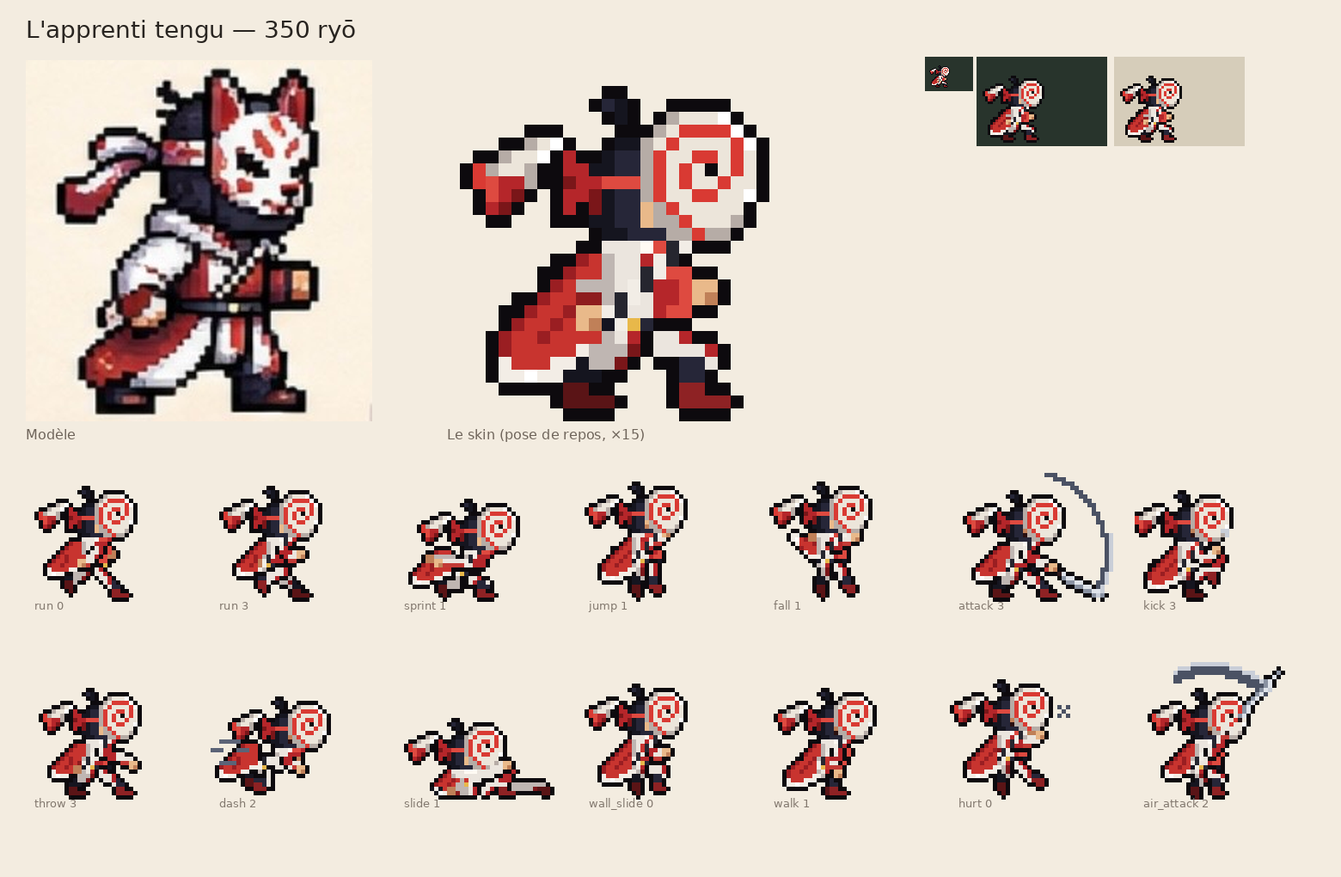
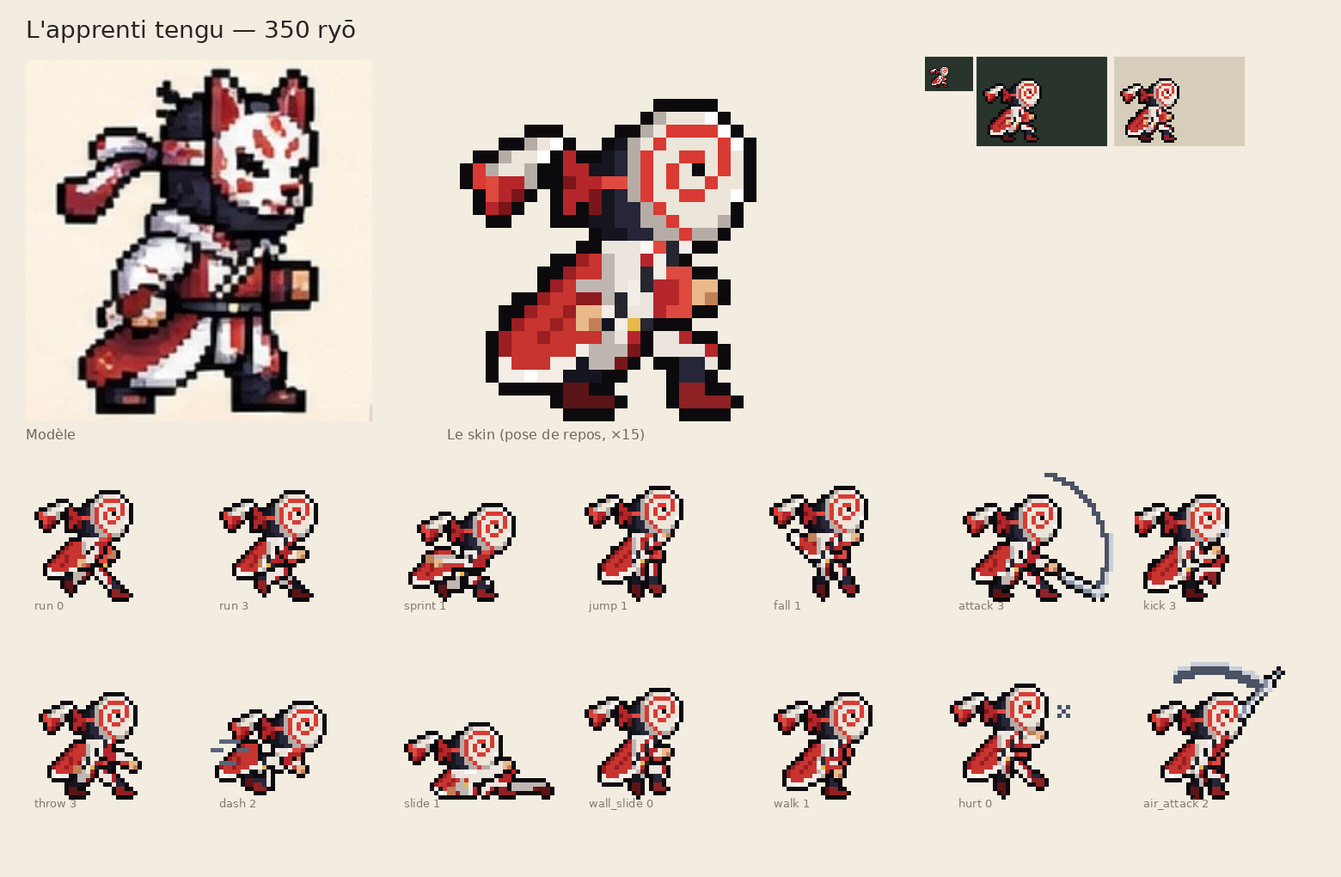
Apprenti tengu terminé : masque collé au visage, sans crête ; messages de reprise
Le masque à spirale est collé d'un pixel contre le visage, et la petite
crête noire (la mèche nouée) qui ressortait entre le masque et les rubans
est retirée (Raph : le skin est terminé).

Fin de série : messages de reprise (général, skins, arènes, chapitres),
SKINS.md (état, leçons : lisibilité avant détail, capes qui partent du dos,
accessoires collés au visage) et carte mentale à jour.

Claude-Session: https://claude.ai/code/session_01A2iwx41GJ1yT1ZEu9VhwRg

diff --git a/docs/carte-mentale/index.html b/docs/carte-mentale/index.html
@@ -270,7 +270,7 @@ const BRANCHES = [
     keys: ['2 dégâts, recul 170 px/s', '0,35 s avant d\'en relancer un', 'Portée équivalente au sabre'],
     files: ['src/game/fall.js', 'tools/kage_forge/rig.py'], see: ['ennemi-chute'] },
   { id: 'kage-skins', t: 'Skins de KAGE', s: 'encours', d: 'Encre, le paysan, l’apprenti tengu, le Samouraï déchu, le pêcheur, Lumière d’or ; cinq autres à reprendre un par un',
-    txt: "Un skin = une palette par slots (même animation, même boîte de collision, rien ne change dans le jeu) et des accessoires, posés pose par pose : sur la tête (grand sugegasa tressé, dessiné à la main), dans le dos (le mino de feuilles et de paille du voyageur, qui suit le bord du dos, s'évase jusqu'aux chevilles et s'effiloche ; le tonnelet doré, le panier, le bambou et le manche d'outil du paysan), sur le corps (cordon doré en pointillés et boucle de ceinture, pan de tunique, pantalon rapiécé, kimono semé de feuilles). Les pans du bandeau sont rangés (le voyageur garde un ruban qui flotte). Chaque skin a sa planche d'animation complète (la forge exporte ses accessoires sur un calque d'index, kage_acc_<skin>_index.png, fondu par le jeu sur la planche recolorée). Planches de Raph (14 novembre 2026) : après un premier essai trop rapide des dix skins entourés, on reprend un par un ; faits : le voyageur (100 ryō, retiré du jeu le 16 novembre 2026 à la demande de Raph : sa planche reste dans docs/kage/skins/) et le paysan des rizières (100 ryō) ; le vagabond (50 ryō) est retiré du jeu (14 novembre 2026) ; Lumière d'or (légendaire, 600 ryō, 15 novembre 2026) : ninja bleu nuit, bandeau d'or et ses pans en flammes, étoffe dorée sur l'épaule, cordon et pans d'or à la ceinture, grande auréole à croix de lumière (sans contour) ; sabre à lame d'or et poignée de cuir, arc du coup d'or, shurikens dorés (projectileColors) ; en jeu (src/game/aura.js), un orbe doré qui flotte devant lui, deux volutes de lumière autour des jambes, des étincelles ; une légère traînée d'or derrière le coup d'épée (les images précédentes de la lame) des silhouettes dorées derrière le dash , trois reflets et un peu de poussière d'or étincelante derrière chaque shuriken (champ trail, Shurikens.dust, maskSheet dans sprites.js) ; le Samouraï déchu (rare, 450 ryō, 16 novembre 2026) : kabuto laqué à la bombe haute, cornes d'or en croissant et cimier rouge, bande rouge et ses deux pans au vent ; épaulière laquée bordée d'or, au haut carré, resserrée sur l'épaule (elle ne dépasse plus que d'un pixel : Raph la confondait avec la cape) ; cape rouge en lambeaux, dessinée à la main pour chaque vent (lu sur les pans du bandeau de la pose) : au repos plaquée dans le dos des épaules aux genoux, trois pixels au plus derrière l'épaule, angles nets, une entaille sur le côté, le bas en pointes ; en course elle vole haut derrière les épaules ; en chute elle se soulève ; col d'or en V, ceinture à plaques d'or ; tassette avant bordée d'or en U, tassette arrière clouée d'or ; hakama sombre jusqu'à la jambe levée d'un coup de pied, chaussures à bande rouille ; le bras arrière rapproché du corps d'un pixel (demandes de Raph) ; sa barre de vie passe au-dessus des cornes (champ barLift). Le même jour : un calque d'accessoires sait effacer (marque ERASE, index 255 : les pans rangés, le bras déplacé) ; jusque-là, ce qu'un accessoire retirait restait visible en jeu (les pans du voyageur, du paysan et de Lumière d'or) ; et en arène, le ninja porte enfin le skin de l'aventure en cours. Le pêcheur (épique, 500 ryō, 16 novembre 2026) : sugegasa à bande de tressage gris-bleu, pan bleu sous le bord, tenue bleu nuit semée d'éclats dorés, corde tressée claire en bandoulière, une canne fine rangée dans le dos, qui dépasse au-dessus du chapeau, un petit fil pendu à sa pointe (elle quitte le dos quand il la prend pour frapper), un filet rond sur le dos tenu à la hanche, qui lévite avec la vitesse (un peu en course ; en sprint et en dash il monte, part en arrière, penche et laisse trois traits de vitesse ; plus petit pendant les saltos), une canne à pêche en bambou à la place du sabre (nœuds, poignée de liège, scion, ligne et flotteur rouge et blanc ; l'arc du coup devient une ligne d'eau), des micro-poissons en guise de shurikens (agrandis ×1,4 le 17 novembre 2026 ; planche kage_fish, cases de 16 px, tournés dans le sens du vol, plantés la tête la première, des micro-gouttelettes d'eau derrière eux ; un petit poisson dans la main au lancer), toiles de paille aux chevilles, marque dorée sur le masque. Les pans du bandeau qui remontent derrière la tête (chute, glissade murale) sont désormais rangés aussi (ribbon : paysan, Lumière d'or). L'apprenti tengu (n° 13, peu commun, 350 ryō, 17 novembre 2026) : masque blanc lisse à œil unique, une spirale rouge d'un pixel qui part de l'œil, s'enroule vers l'extérieur et finit dans le bord bas du masque (choisi par Raph le 17 novembre 2026 parmi six idées, docs/kage/skins/tengu_masques.png, après l'abandon du masque de renard), mèche nouée, rubans blanc et rouge effilés au vent, boucle dorée à la ceinture, veste blanche à la poitrine rouge, cordelette en damier, pantalon blanc à bande rouge, tibias sombres, long pan du manteau rouge bordé de blanc, qui fait cape, rapproché du dos de deux pixels : il part du milieu du dos, large contre le dos, s'arrête au-dessus des pieds, reste près du dos en course (sans traîner comme une queue) et se ramasse pendant les saltos ; rubans raccourcis. Les cinq autres (ninja blanc, écarlate, Ombre pourpre, Souffle de l'hiver, Renard blanc) attendent en brouillon (tools/kage_forge/skins_brouillon/), hors du jeu. Nouveaux slots : gear (b B i) et gear2 (j J).",
+    txt: "Un skin = une palette par slots (même animation, même boîte de collision, rien ne change dans le jeu) et des accessoires, posés pose par pose : sur la tête (grand sugegasa tressé, dessiné à la main), dans le dos (le mino de feuilles et de paille du voyageur, qui suit le bord du dos, s'évase jusqu'aux chevilles et s'effiloche ; le tonnelet doré, le panier, le bambou et le manche d'outil du paysan), sur le corps (cordon doré en pointillés et boucle de ceinture, pan de tunique, pantalon rapiécé, kimono semé de feuilles). Les pans du bandeau sont rangés (le voyageur garde un ruban qui flotte). Chaque skin a sa planche d'animation complète (la forge exporte ses accessoires sur un calque d'index, kage_acc_<skin>_index.png, fondu par le jeu sur la planche recolorée). Planches de Raph (14 novembre 2026) : après un premier essai trop rapide des dix skins entourés, on reprend un par un ; faits : le voyageur (100 ryō, retiré du jeu le 16 novembre 2026 à la demande de Raph : sa planche reste dans docs/kage/skins/) et le paysan des rizières (100 ryō) ; le vagabond (50 ryō) est retiré du jeu (14 novembre 2026) ; Lumière d'or (légendaire, 600 ryō, 15 novembre 2026) : ninja bleu nuit, bandeau d'or et ses pans en flammes, étoffe dorée sur l'épaule, cordon et pans d'or à la ceinture, grande auréole à croix de lumière (sans contour) ; sabre à lame d'or et poignée de cuir, arc du coup d'or, shurikens dorés (projectileColors) ; en jeu (src/game/aura.js), un orbe doré qui flotte devant lui, deux volutes de lumière autour des jambes, des étincelles ; une légère traînée d'or derrière le coup d'épée (les images précédentes de la lame) des silhouettes dorées derrière le dash , trois reflets et un peu de poussière d'or étincelante derrière chaque shuriken (champ trail, Shurikens.dust, maskSheet dans sprites.js) ; le Samouraï déchu (rare, 450 ryō, 16 novembre 2026) : kabuto laqué à la bombe haute, cornes d'or en croissant et cimier rouge, bande rouge et ses deux pans au vent ; épaulière laquée bordée d'or, au haut carré, resserrée sur l'épaule (elle ne dépasse plus que d'un pixel : Raph la confondait avec la cape) ; cape rouge en lambeaux, dessinée à la main pour chaque vent (lu sur les pans du bandeau de la pose) : au repos plaquée dans le dos des épaules aux genoux, trois pixels au plus derrière l'épaule, angles nets, une entaille sur le côté, le bas en pointes ; en course elle vole haut derrière les épaules ; en chute elle se soulève ; col d'or en V, ceinture à plaques d'or ; tassette avant bordée d'or en U, tassette arrière clouée d'or ; hakama sombre jusqu'à la jambe levée d'un coup de pied, chaussures à bande rouille ; le bras arrière rapproché du corps d'un pixel (demandes de Raph) ; sa barre de vie passe au-dessus des cornes (champ barLift). Le même jour : un calque d'accessoires sait effacer (marque ERASE, index 255 : les pans rangés, le bras déplacé) ; jusque-là, ce qu'un accessoire retirait restait visible en jeu (les pans du voyageur, du paysan et de Lumière d'or) ; et en arène, le ninja porte enfin le skin de l'aventure en cours. Le pêcheur (épique, 500 ryō, 16 novembre 2026) : sugegasa à bande de tressage gris-bleu, pan bleu sous le bord, tenue bleu nuit semée d'éclats dorés, corde tressée claire en bandoulière, une canne fine rangée dans le dos, qui dépasse au-dessus du chapeau, un petit fil pendu à sa pointe (elle quitte le dos quand il la prend pour frapper), un filet rond sur le dos tenu à la hanche, qui lévite avec la vitesse (un peu en course ; en sprint et en dash il monte, part en arrière, penche et laisse trois traits de vitesse ; plus petit pendant les saltos), une canne à pêche en bambou à la place du sabre (nœuds, poignée de liège, scion, ligne et flotteur rouge et blanc ; l'arc du coup devient une ligne d'eau), des micro-poissons en guise de shurikens (agrandis ×1,4 le 17 novembre 2026 ; planche kage_fish, cases de 16 px, tournés dans le sens du vol, plantés la tête la première, des micro-gouttelettes d'eau derrière eux ; un petit poisson dans la main au lancer), toiles de paille aux chevilles, marque dorée sur le masque. Les pans du bandeau qui remontent derrière la tête (chute, glissade murale) sont désormais rangés aussi (ribbon : paysan, Lumière d'or). L'apprenti tengu (n° 13, peu commun, 350 ryō, 17 novembre 2026) : masque blanc lisse à œil unique, une spirale rouge d'un pixel qui part de l'œil, s'enroule vers l'extérieur et finit dans le bord bas du masque (choisi par Raph le 17 novembre 2026 parmi six idées, docs/kage/skins/tengu_masques.png, après l'abandon du masque de renard ; collé contre le visage, sans la petite crête noire au sommet), rubans blanc et rouge effilés au vent, boucle dorée à la ceinture, veste blanche à la poitrine rouge, cordelette en damier, pantalon blanc à bande rouge, tibias sombres, long pan du manteau rouge bordé de blanc, qui fait cape, rapproché du dos de deux pixels : il part du milieu du dos, large contre le dos, s'arrête au-dessus des pieds, reste près du dos en course (sans traîner comme une queue) et se ramasse pendant les saltos ; rubans raccourcis. Les cinq autres (ninja blanc, écarlate, Ombre pourpre, Souffle de l'hiver, Renard blanc) attendent en brouillon (tools/kage_forge/skins_brouillon/), hors du jeu. Nouveaux slots : gear (b B i) et gear2 (j J).",
     keys: ['6 skins en jeu', '5 en brouillon', 'gear b B i · gear2 j J', 'effacer : index 255'],
     files: ['assets/characters/kage/skins/', 'src/engine/sprites.js', 'tools/kage_forge/accessories.py', 'tools/kage_forge/palette.py', 'tools/kage_forge/skin_design.py', 'tools/kage_forge/skin_sheets.py', 'tools/kage_forge/skins_brouillon/', 'src/game/shop.js', 'src/game/aura.js', 'docs/SKINS.md'],
     links: [['Le paysan, face à son modèle', 'docs/kage/skins/paysan_planche.png'], ['Lumière d’or, face à son modèle', 'docs/kage/skins/or_planche.png'], ['Le Samouraï déchu, face à son modèle', 'docs/kage/skins/samourai_planche.png'], ['Le pêcheur, face à son modèle', 'docs/kage/skins/pecheur_planche.png'], ['L’apprenti tengu, face à son modèle', 'docs/kage/skins/tengu_planche.png'], ['L’apprenti tengu : les six idées de masques', 'docs/kage/skins/tengu_masques.png'], ['Le pêcheur, toutes les animations', 'docs/kage/skins/planche_pecheur.png'], ['Le Samouraï déchu, toutes les animations', 'docs/kage/skins/planche_samourai.png']], see: ['sys-boutique', 'hab-marchand'] },

diff --git a/tools/kage_forge/accessories.py b/tools/kage_forge/accessories.py
@@ -1331,7 +1331,7 @@ def mask_mark(g):
 # ---------------------------------------------------------------------------
 # L'Apprenti Tengu (planche de Raph, n° 13) : un masque blanc lisse à œil unique, une spirale rouge qui part de
 # l'œil, s'enroule vers l'extérieur et finit dans le bord bas du masque (choix de Raph, après l'abandon du masque de renard : on n'y devinait pas
-# assez le renard à notre échelle de pixels) ; capuche sombre derrière et sa petite mèche nouée, deux rubans
+# assez le renard à notre échelle de pixels) ; capuche sombre derrière, deux rubans
 # (blanc bordé de rouge, et rouge) qui flottent derrière la tête ; veste blanche au devant rouge, cordelette en
 # damier ; pantalon blanc à bande rouge ; le long pan du manteau, rouge bordé de blanc, qui fait cape et suit
 # le vent de la pose (comme la cape du samouraï).
@@ -1350,7 +1350,7 @@ bJBBJJBBi
 .bbJBBBb.
 ..bbJbb..
 """
-FOX_MASK_DX, FOX_MASK_DY = 5, -1
+FOX_MASK_DX, FOX_MASK_DY = 4, -1
 
 # les deux rubans du masque, qui flottent derrière la tête (rangée relative à hy : colonne, motif)
 FOX_TIES = {
@@ -1365,8 +1365,7 @@ FOX_TIES = {
 
 
 def fox_mask(g):
-    """Le masque à œil unique et sa spirale (FOX_MASK), la petite mèche nouée au sommet de la capuche, et les
-    deux rubans."""
+    """Le masque à œil unique et sa spirale (FOX_MASK), collé contre le visage, et les deux rubans."""
     pos = find_head(g)
     if pos is None:
         return g, False
@@ -1383,12 +1382,7 @@ def fox_mask(g):
             if c != "." and 0 <= x < CW and 0 <= y < CH and g[y, x] in BG:
                 g[y, x] = c
                 mask[y, x] = True
-    # la mèche nouée, à l'arrière du sommet
-    for dx, dy, c in ((3, -1, "h"), (2, -2, "H"), (3, -2, "h")):
-        x, y = hx + dx, hy + dy
-        if 0 <= x < CW and 0 <= y < CH and g[y, x] in BG:
-            g[y, x] = c
-            mask[y, x] = True
+    # (plus de mèche nouée au sommet : la petite crête noire ressortait derrière le masque, Raph)
     for j, row in enumerate(_rows(FOX_MASK)):
         for i, c in enumerate(row):
             x, y = hx + FOX_MASK_DX + i, hy + FOX_MASK_DY + j

diff --git a/docs/messages/MESSAGE_SKINS.md b/docs/messages/MESSAGE_SKINS.md
@@ -8,7 +8,7 @@ Bonjour ! On reprend mon jeu, et **cette conversation est consacrée uniquement 
 
 **Le jeu** : *The Ninja Adventure* (ex « The Ninja Game »), un jeu de plateforme 2D rapide en pixel art, dans un Japon peint (rizières, forêts, montagnes). Le ninja **n'a pas de nom pour le joueur** : il s'appelle KAGE seulement dans le code et les fichiers, jamais à l'écran. Réponds toujours en **français**.
 
-**Ce qui existe** (tout est dans `main` et en ligne, 16 novembre 2026) :
+**Ce qui existe** (tout est dans `main` et en ligne, 17 novembre 2026) :
 - **le menu de l'intro** : Aventure · Arène · Mon ninja. Il est sobre : aucune consigne ni sous-titre en petit gris.
   - Aventure : deux aventures en parallèle (continuer, nouvelle, effacer).
   - Arène : Nouvelle arène (« Accueillir ») ou Rejoindre avec un code de 4 signes.
@@ -23,7 +23,7 @@ Bonjour ! On reprend mon jeu, et **cette conversation est consacrée uniquement 
   - une grue et son rocher ficelé, un gong et des vagues, des échafaudages, des cœurs.
 - **le ninja** :
   - 28 animations : course, sprint, dash, glissade, saut mural, saltos, sabre, shurikens, coups de pied, lianes, corde… ;
-  - 4 skins : Encre, le voyageur, le paysan, Lumière d'or ; 7 autres en brouillon.
+  - 6 skins : Encre, le paysan, l'apprenti tengu, le Samouraï déchu, le pêcheur (canne à pêche et micro-poissons), Lumière d'or ; 5 autres en brouillon.
 
 **Technique** :
 - Vite et JavaScript (modules ES), Canvas 2D, aucune bibliothèque de rendu. Image interne 448×252, mise à l'échelle entière (pixels nets).
@@ -40,7 +40,7 @@ Bonjour ! On reprend mon jeu, et **cette conversation est consacrée uniquement 
 ```bash
 npm install
 npm run sprites   # sprites (ninja, ennemis, boss) avec contrôles qualité
-npm test          # carte mentale + build + versions autonomes + 93 tests de bout en bout + 32 de la Forêt
+npm test          # carte mentale + build + versions autonomes + 97 tests de bout en bout + 32 de la Forêt
 npm run dev       # le jeu en local ; #arene-potager, #foret, #niveau-1, #terrain
 ```
 Commence par `npm install`, `npm run sprites` et `npm test` pour connaître l'état réel.
@@ -48,7 +48,7 @@ Commence par `npm install`, `npm run sprites` et `npm test` pour connaître l'é
 **Les artefacts claude.ai** (fabriqués par `npm run standalone`) :
 - **« The Ninja Adventure Test »**, ma version d'essai :
   - https://claude.ai/artifact/ScyWi7qXjftmdLs6Qxo7Ys (identifiant `cf7a5349-c737-467e-8a85-43de0e34b850`, `dist/kage-test.html`, `shared_live: "public"`) ;
-  - pas d'écran titre, un panneau en haut à droite : skins sans achat, chapitres et zones en un clic, bouton Arène ;
+  - pas d'écran titre, un bouton « Réglages » en haut à droite ouvre et ferme le panneau : skins sans achat, chapitres et zones en un clic, bouton Arène ;
   - **elle ne se publie que si je dis « publie-le »** (alors sans redemander) ; si je ne dis rien, ne la publie pas.
 - **« The Ninja Adventure »**, le jeu pour tout le monde :
   - https://claude.ai/artifact/Cjj8EJCrABmuHzWypJC2cm (identifiant `5f0bb94d-1fa1-48d5-b9b9-f829586682e6`, `dist/kage-standalone.html`, `shared_live: "public"`) ;
@@ -63,7 +63,8 @@ Commence par `npm install`, `npm run sprites` et `npm test` pour connaître l'é
 - vérifie sur ordinateur et sur téléphone, en paysage (~844×390) et en portrait (~390×844) ;
 - **planche de design avant tout nouveau personnage, ennemi ou skin** ;
 - rendu « jeu indé soigné », jamais générique : de la profondeur, du volume, rien qui flotte, une lumière cohérente ;
-- interface discrète et sobre ;
+- interface discrète et sobre ; **menus apaisants** : aucune phrase d'aide, le marchand ne parle pas, le jeu laisse le joueur s'aventurer ;
+- **le son est toujours actif** (ni bouton « Son » ni touche M : le joueur passe son téléphone en silencieux) ;
 - commits et documentation en français ;
 - **la carte mentale** (`docs/carte-mentale/index.html`) se met à jour dans le même commit que chaque changement du jeu (`npm run carte` vérifie) ;
 - `npm run sprites` puis `npm test` verts avant de pousser ;
@@ -87,7 +88,12 @@ Commence par `npm install`, `npm run sprites` et `npm test` pour connaître l'é
 - je l'essaie dans la version test (skins sans achat).
 
 **Ce qui attend** :
-- les **sept skins en brouillon** (`tools/kage_forge/skins_brouillon/`), à refaire **un par un, fidèles à mes modèles** : le ninja blanc (150 ryō), le ninja écarlate (150), Ombre pourpre (150), le pêcheur (250), Souffle de l'hiver (450), Renard blanc (500), Samouraï déchu (550) ;
+- les **cinq skins en brouillon** (`tools/kage_forge/skins_brouillon/`), à refaire **un par un, fidèles à mes modèles** : le ninja blanc (150 ryō), le ninja écarlate (150), Ombre pourpre (150), Souffle de l'hiver (450), Renard blanc (500) ;
 - puis d'autres skins que je te proposerai.
+
+**Leçons des derniers skins** (17 novembre 2026, détail dans `docs/SKINS.md`) :
+- à notre échelle de pixels, un visage détaillé (masque de renard) ne se lit pas : préférer des **signes graphiques simples et forts** (la spirale de l'apprenti tengu) ; proposer plusieurs idées dessinées sur le ninja quand une piste coince ;
+- une cape ou un manteau doit partir **du dos**, pas de la ceinture, et rester près du corps en course (sinon on croit voir une queue) ; prévoir un gabarit ramassé pour les saltos ;
+- un skin peut changer d'arme et de projectiles (le pêcheur : canne à pêche, micro-poissons ; champ `projectile`).
 
 Dis-moi quand tu as lu et compris, en quelques lignes, puis attends ma première demande.

diff --git a/docs/SKINS.md b/docs/SKINS.md
@@ -6,7 +6,7 @@ Tout ce qu'il faut savoir pour **créer un skin** du ninja de *The Ninja Adventu
 
 ---
 
-## 1. Où on en est (16 novembre 2026, Samouraï déchu fait)
+## 1. Où on en est (17 novembre 2026 : Samouraï déchu, pêcheur et apprenti tengu faits)
 
 **Skins dans le jeu** (`assets/characters/kage/skins/`) :
 
@@ -14,12 +14,12 @@ Tout ce qu'il faut savoir pour **créer un skin** du ninja de *The Ninja Adventu
 |---|---|---|---|---|---|
 | `encre` | Encre | origine | — | — | le skin d'origine, toujours possédé |
 | `paysan` | Paysan des rizières | commun | 100 | `notails`, `pants`, `dots`, `farmer`, `sash`, `kasa` | kimono vert, tonnelet et panier sur le dos, bambou |
-| `tengu` | L'apprenti tengu | peu commun | 350 | `fox_tail`, `haori`, `rope`, `fox_mask` | masque blanc à œil unique et spirale rouge qui finit dans le bord du masque, mèche nouée, rubans blanc et rouge au vent ; veste blanche au devant rouge, cordelette en damier, pantalon blanc à bande rouge, boucle dorée ; long pan du manteau rouge bordé de blanc, qui fait cape (`fox_tail`) : il part du milieu du dos, large contre le dos, reste près du dos en course et se ramasse pendant les saltos ; rubans courts |
+| `tengu` | L'apprenti tengu | peu commun | 350 | `fox_tail`, `haori`, `rope`, `fox_mask` | masque blanc à œil unique, collé contre le visage, et spirale rouge qui finit dans le bord du masque, rubans blanc et rouge au vent ; veste blanche au devant rouge, cordelette en damier, pantalon blanc à bande rouge, boucle dorée ; long pan du manteau rouge bordé de blanc, qui fait cape (`fox_tail`) : il part du milieu du dos, large contre le dos, reste près du dos en course et se ramasse pendant les saltos ; rubans courts |
 | `samourai` | Samouraï déchu | rare | 450 | `arm_in`, `hakama`, `kusazuri`, `rag`, `sode`, `samurai_trim`, `kabuto` | kabuto aux cornes d'or en croissant et cimier rouge, pans au vent, épaulière carrée resserrée sur l'épaule, cape en lambeaux (plaquée au repos, au vent en course), tassettes bordées d'or ; bras arrière rapproché du corps ; `barLift: 4` (barre de vie au-dessus des cornes) |
 | `pecheur` | Le pêcheur | épique | 500 | `round_net`, `ribbon`, `rope`, `specks`, `wraps`, `mask_mark`, `rod`, `back_rod`, `kasa_peche` | sugegasa tressé de bleu, pan bleu, une canne fine rangée dans le dos (un fil pend de sa pointe ; elle quitte le dos quand il frappe), filet rond sur le dos qui lévite avec la vitesse (course, sprint), corde tressée, éclats dorés ; **canne à pêche** en bambou à la place du sabre (ligne et flotteur, arc du coup en ligne d'eau) ; **micro-poissons** en guise de shurikens (`projectile: "fish"`, gouttes d'eau : `projectileDust: "water"`) |
 | `or` | Lumière d'or | légendaire | 600 | `flametails`, `halo`, `hipcloth`, `mantlet`, `sash`, `apron` | `aura: 'gold'` (éclat : `src/game/aura.js`), shurikens dorés (`projectileColors`), traînées d'or (`trail`), poussière d'or derrière les shurikens (`goldDust`, `src/game/shuriken.js`) |
 
-**Brouillons** (`tools/kage_forge/skins_brouillon/`, hors du jeu) : un premier jet trop rapide, à **refaire un par un, fidèles au modèle** (le Samouraï déchu est fait, 16 novembre 2026) :
+**Brouillons** (`tools/kage_forge/skins_brouillon/`, hors du jeu) : un premier jet trop rapide, à **refaire un par un, fidèles au modèle** (le Samouraï déchu, le pêcheur et l'apprenti tengu sont faits, 16 et 17 novembre 2026) :
 
 | Fichier | Nom | Prix prévu | Rareté |
 |---|---|---|---|
@@ -43,6 +43,11 @@ Les **modèles** sont des planches dessinées par Raph : il les envoie en image 
 - Rendu « jeu indé soigné » : pixels nets, contour d'un pixel, lumière à gauche, rien de flou ni de générique.
 
 ---
+
+**Leçons des derniers skins** (17 novembre 2026) :
+- **lisibilité avant détail** : à notre échelle (un masque fait 9 pixels de large), un visage détaillé ne se lit pas ; le masque de renard de l'apprenti tengu a été abandonné après plusieurs essais pour une **spirale rouge** sur un masque lisse à œil unique. Quand une piste coince, dessiner plusieurs idées sur le ninja et les montrer côte à côte (`docs/kage/skins/tengu_masques.png`) ;
+- **capes et manteaux** : partir du milieu du dos, pas de la ceinture (sinon ils semblent sortir des jambes) ; rester près du dos en course (sinon on croit voir une queue) ; prévoir un gabarit ramassé pour les saltos ;
+- **les accessoires plaqués** sur la tête (masque, casque) se collent au visage : un pixel trop en avant suffit à les faire paraître décalés.
 
 ## 3. Comment un skin est fait
 

diff --git a/docs/messages/MESSAGE_ARENES.md b/docs/messages/MESSAGE_ARENES.md
@@ -8,7 +8,7 @@ Bonjour ! On reprend mon jeu, et **cette conversation est consacrée uniquement 
 
 **Le jeu** : *The Ninja Adventure* (ex « The Ninja Game »), un jeu de plateforme 2D rapide en pixel art, dans un Japon peint (rizières, forêts, montagnes). Le ninja **n'a pas de nom pour le joueur** : il s'appelle KAGE seulement dans le code et les fichiers, jamais à l'écran. Réponds toujours en **français**.
 
-**Ce qui existe** (tout est dans `main` et en ligne, 16 novembre 2026) :
+**Ce qui existe** (tout est dans `main` et en ligne, 17 novembre 2026) :
 - **le menu de l'intro** : Aventure · Arène · Mon ninja. Il est sobre : aucune consigne ni sous-titre en petit gris.
   - Aventure : deux aventures en parallèle (continuer, nouvelle, effacer).
   - Arène : Nouvelle arène (« Accueillir ») ou Rejoindre avec un code de 4 signes.
@@ -23,7 +23,7 @@ Bonjour ! On reprend mon jeu, et **cette conversation est consacrée uniquement 
   - une grue et son rocher ficelé, un gong et des vagues, des échafaudages, des cœurs.
 - **le ninja** :
   - 28 animations : course, sprint, dash, glissade, saut mural, saltos, sabre, shurikens, coups de pied, lianes, corde… ;
-  - 4 skins : Encre, le voyageur, le paysan, Lumière d'or ; 7 autres en brouillon.
+  - 6 skins : Encre, le paysan, l'apprenti tengu, le Samouraï déchu, le pêcheur (canne à pêche et micro-poissons), Lumière d'or ; 5 autres en brouillon.
 
 **Technique** :
 - Vite et JavaScript (modules ES), Canvas 2D, aucune bibliothèque de rendu. Image interne 448×252, mise à l'échelle entière (pixels nets).
@@ -40,7 +40,7 @@ Bonjour ! On reprend mon jeu, et **cette conversation est consacrée uniquement 
 ```bash
 npm install
 npm run sprites   # sprites (ninja, ennemis, boss) avec contrôles qualité
-npm test          # carte mentale + build + versions autonomes + 93 tests de bout en bout + 32 de la Forêt
+npm test          # carte mentale + build + versions autonomes + 97 tests de bout en bout + 32 de la Forêt
 npm run dev       # le jeu en local ; #arene-potager, #foret, #niveau-1, #terrain
 ```
 Commence par `npm install`, `npm run sprites` et `npm test` pour connaître l'état réel.
@@ -48,7 +48,7 @@ Commence par `npm install`, `npm run sprites` et `npm test` pour connaître l'é
 **Les artefacts claude.ai** (fabriqués par `npm run standalone`) :
 - **« The Ninja Adventure Test »**, ma version d'essai :
   - https://claude.ai/artifact/ScyWi7qXjftmdLs6Qxo7Ys (identifiant `cf7a5349-c737-467e-8a85-43de0e34b850`, `dist/kage-test.html`, `shared_live: "public"`) ;
-  - pas d'écran titre, un panneau en haut à droite : skins sans achat, chapitres et zones en un clic, bouton Arène ;
+  - pas d'écran titre, un bouton « Réglages » en haut à droite ouvre et ferme le panneau : skins sans achat, chapitres et zones en un clic, bouton Arène ;
   - **elle ne se publie que si je dis « publie-le »** (alors sans redemander) ; si je ne dis rien, ne la publie pas.
 - **« The Ninja Adventure »**, le jeu pour tout le monde :
   - https://claude.ai/artifact/Cjj8EJCrABmuHzWypJC2cm (identifiant `5f0bb94d-1fa1-48d5-b9b9-f829586682e6`, `dist/kage-standalone.html`, `shared_live: "public"`) ;
@@ -63,7 +63,8 @@ Commence par `npm install`, `npm run sprites` et `npm test` pour connaître l'é
 - vérifie sur ordinateur et sur téléphone, en paysage (~844×390) et en portrait (~390×844) ;
 - **planche de design avant tout nouveau personnage, ennemi ou skin** ;
 - rendu « jeu indé soigné », jamais générique : de la profondeur, du volume, rien qui flotte, une lumière cohérente ;
-- interface discrète et sobre ;
+- interface discrète et sobre ; **menus apaisants** : aucune phrase d'aide, le marchand ne parle pas, le jeu laisse le joueur s'aventurer ;
+- **le son est toujours actif** (ni bouton « Son » ni touche M : le joueur passe son téléphone en silencieux) ;
 - commits et documentation en français ;
 - **la carte mentale** (`docs/carte-mentale/index.html`) se met à jour dans le même commit que chaque changement du jeu (`npm run carte` vérifie) ;
 - `npm run sprites` puis `npm test` verts avant de pousser ;

diff --git a/docs/messages/MESSAGE_CHAPITRES.md b/docs/messages/MESSAGE_CHAPITRES.md
@@ -8,7 +8,7 @@ Bonjour ! On reprend mon jeu, et **cette conversation est consacrée uniquement 
 
 **Le jeu** : *The Ninja Adventure* (ex « The Ninja Game »), un jeu de plateforme 2D rapide en pixel art, dans un Japon peint (rizières, forêts, montagnes). Le ninja **n'a pas de nom pour le joueur** : il s'appelle KAGE seulement dans le code et les fichiers, jamais à l'écran. Réponds toujours en **français**.
 
-**Ce qui existe** (tout est dans `main` et en ligne, 16 novembre 2026) :
+**Ce qui existe** (tout est dans `main` et en ligne, 17 novembre 2026) :
 - **le menu de l'intro** : Aventure · Arène · Mon ninja. Il est sobre : aucune consigne ni sous-titre en petit gris.
   - Aventure : deux aventures en parallèle (continuer, nouvelle, effacer).
   - Arène : Nouvelle arène (« Accueillir ») ou Rejoindre avec un code de 4 signes.
@@ -23,7 +23,7 @@ Bonjour ! On reprend mon jeu, et **cette conversation est consacrée uniquement 
   - une grue et son rocher ficelé, un gong et des vagues, des échafaudages, des cœurs.
 - **le ninja** :
   - 28 animations : course, sprint, dash, glissade, saut mural, saltos, sabre, shurikens, coups de pied, lianes, corde… ;
-  - 4 skins : Encre, le voyageur, le paysan, Lumière d'or ; 7 autres en brouillon.
+  - 6 skins : Encre, le paysan, l'apprenti tengu, le Samouraï déchu, le pêcheur (canne à pêche et micro-poissons), Lumière d'or ; 5 autres en brouillon.
 
 **Technique** :
 - Vite et JavaScript (modules ES), Canvas 2D, aucune bibliothèque de rendu. Image interne 448×252, mise à l'échelle entière (pixels nets).
@@ -40,7 +40,7 @@ Bonjour ! On reprend mon jeu, et **cette conversation est consacrée uniquement 
 ```bash
 npm install
 npm run sprites   # sprites (ninja, ennemis, boss) avec contrôles qualité
-npm test          # carte mentale + build + versions autonomes + 93 tests de bout en bout + 32 de la Forêt
+npm test          # carte mentale + build + versions autonomes + 97 tests de bout en bout + 32 de la Forêt
 npm run dev       # le jeu en local ; #arene-potager, #foret, #niveau-1, #terrain
 ```
 Commence par `npm install`, `npm run sprites` et `npm test` pour connaître l'état réel.
@@ -48,7 +48,7 @@ Commence par `npm install`, `npm run sprites` et `npm test` pour connaître l'é
 **Les artefacts claude.ai** (fabriqués par `npm run standalone`) :
 - **« The Ninja Adventure Test »**, ma version d'essai :
   - https://claude.ai/artifact/ScyWi7qXjftmdLs6Qxo7Ys (identifiant `cf7a5349-c737-467e-8a85-43de0e34b850`, `dist/kage-test.html`, `shared_live: "public"`) ;
-  - pas d'écran titre, un panneau en haut à droite : skins sans achat, chapitres et zones en un clic, bouton Arène ;
+  - pas d'écran titre, un bouton « Réglages » en haut à droite ouvre et ferme le panneau : skins sans achat, chapitres et zones en un clic, bouton Arène ;
   - **elle ne se publie que si je dis « publie-le »** (alors sans redemander) ; si je ne dis rien, ne la publie pas.
 - **« The Ninja Adventure »**, le jeu pour tout le monde :
   - https://claude.ai/artifact/Cjj8EJCrABmuHzWypJC2cm (identifiant `5f0bb94d-1fa1-48d5-b9b9-f829586682e6`, `dist/kage-standalone.html`, `shared_live: "public"`) ;
@@ -63,7 +63,8 @@ Commence par `npm install`, `npm run sprites` et `npm test` pour connaître l'é
 - vérifie sur ordinateur et sur téléphone, en paysage (~844×390) et en portrait (~390×844) ;
 - **planche de design avant tout nouveau personnage, ennemi ou skin** ;
 - rendu « jeu indé soigné », jamais générique : de la profondeur, du volume, rien qui flotte, une lumière cohérente ;
-- interface discrète et sobre ;
+- interface discrète et sobre ; **menus apaisants** : aucune phrase d'aide, le marchand ne parle pas, le jeu laisse le joueur s'aventurer ;
+- **le son est toujours actif** (ni bouton « Son » ni touche M : le joueur passe son téléphone en silencieux) ;
 - commits et documentation en français ;
 - **la carte mentale** (`docs/carte-mentale/index.html`) se met à jour dans le même commit que chaque changement du jeu (`npm run carte` vérifie) ;
 - `npm run sprites` puis `npm test` verts avant de pousser ;

diff --git a/docs/MESSAGE_NOUVELLE_CONVERSATION.md b/docs/MESSAGE_NOUVELLE_CONVERSATION.md
@@ -15,7 +15,7 @@ Bonjour ! On reprend mon jeu.
 
 **Le jeu** : *The Ninja Adventure* (ex « The Ninja Game »), un jeu de plateforme 2D rapide en pixel art, dans un Japon peint (rizières, forêts, montagnes). Le ninja **n'a pas de nom pour le joueur** : il s'appelle KAGE seulement dans le code et les fichiers, jamais à l'écran. Réponds toujours en **français**.
 
-**Ce qui existe** (tout est dans `main` et en ligne, 16 novembre 2026) :
+**Ce qui existe** (tout est dans `main` et en ligne, 17 novembre 2026) :
 - **le menu de l'intro** : Aventure · Arène · Mon ninja. Il est sobre : aucune consigne ni sous-titre en petit gris.
   - Aventure : deux aventures en parallèle (continuer, nouvelle, effacer).
   - Arène : Nouvelle arène (« Accueillir ») ou Rejoindre avec un code de 4 signes.
@@ -30,7 +30,7 @@ Bonjour ! On reprend mon jeu.
   - une grue et son rocher ficelé, un gong et des vagues, des échafaudages, des cœurs.
 - **le ninja** :
   - 28 animations : course, sprint, dash, glissade, saut mural, saltos, sabre, shurikens, coups de pied, lianes, corde… ;
-  - 4 skins : Encre, le voyageur, le paysan, Lumière d'or ; 7 autres en brouillon.
+  - 6 skins : Encre, le paysan, l'apprenti tengu, le Samouraï déchu, le pêcheur (canne à pêche et micro-poissons), Lumière d'or ; 5 autres en brouillon.
 
 **Technique** :
 - Vite et JavaScript (modules ES), Canvas 2D, aucune bibliothèque de rendu. Image interne 448×252, mise à l'échelle entière (pixels nets).
@@ -47,7 +47,7 @@ Bonjour ! On reprend mon jeu.
 ```bash
 npm install
 npm run sprites   # sprites (ninja, ennemis, boss) avec contrôles qualité
-npm test          # carte mentale + build + versions autonomes + 93 tests de bout en bout + 32 de la Forêt
+npm test          # carte mentale + build + versions autonomes + 97 tests de bout en bout + 32 de la Forêt
 npm run dev       # le jeu en local ; #arene-potager, #foret, #niveau-1, #terrain
 ```
 Commence par `npm install`, `npm run sprites` et `npm test` pour connaître l'état réel.
@@ -55,7 +55,7 @@ Commence par `npm install`, `npm run sprites` et `npm test` pour connaître l'é
 **Les artefacts claude.ai** (fabriqués par `npm run standalone`) :
 - **« The Ninja Adventure Test »**, ma version d'essai :
   - https://claude.ai/artifact/ScyWi7qXjftmdLs6Qxo7Ys (identifiant `cf7a5349-c737-467e-8a85-43de0e34b850`, `dist/kage-test.html`, `shared_live: "public"`) ;
-  - pas d'écran titre, un panneau en haut à droite : skins sans achat, chapitres et zones en un clic, bouton Arène ;
+  - pas d'écran titre, un bouton « Réglages » en haut à droite ouvre et ferme le panneau : skins sans achat, chapitres et zones en un clic, bouton Arène ;
   - **elle ne se publie que si je dis « publie-le »** (alors sans redemander) ; si je ne dis rien, ne la publie pas.
 - **« The Ninja Adventure »**, le jeu pour tout le monde :
   - https://claude.ai/artifact/Cjj8EJCrABmuHzWypJC2cm (identifiant `5f0bb94d-1fa1-48d5-b9b9-f829586682e6`, `dist/kage-standalone.html`, `shared_live: "public"`) ;
@@ -70,7 +70,8 @@ Commence par `npm install`, `npm run sprites` et `npm test` pour connaître l'é
 - vérifie sur ordinateur et sur téléphone, en paysage (~844×390) et en portrait (~390×844) ;
 - **planche de design avant tout nouveau personnage, ennemi ou skin** ;
 - rendu « jeu indé soigné », jamais générique : de la profondeur, du volume, rien qui flotte, une lumière cohérente ;
-- interface discrète et sobre ;
+- interface discrète et sobre ; **menus apaisants** : aucune phrase d'aide, le marchand ne parle pas, le jeu laisse le joueur s'aventurer ;
+- **le son est toujours actif** (ni bouton « Son » ni touche M : le joueur passe son téléphone en silencieux) ;
 - commits et documentation en français ;
 - **la carte mentale** (`docs/carte-mentale/index.html`) se met à jour dans le même commit que chaque changement du jeu (`npm run carte` vérifie) ;
 - `npm run sprites` puis `npm test` verts avant de pousser ;
